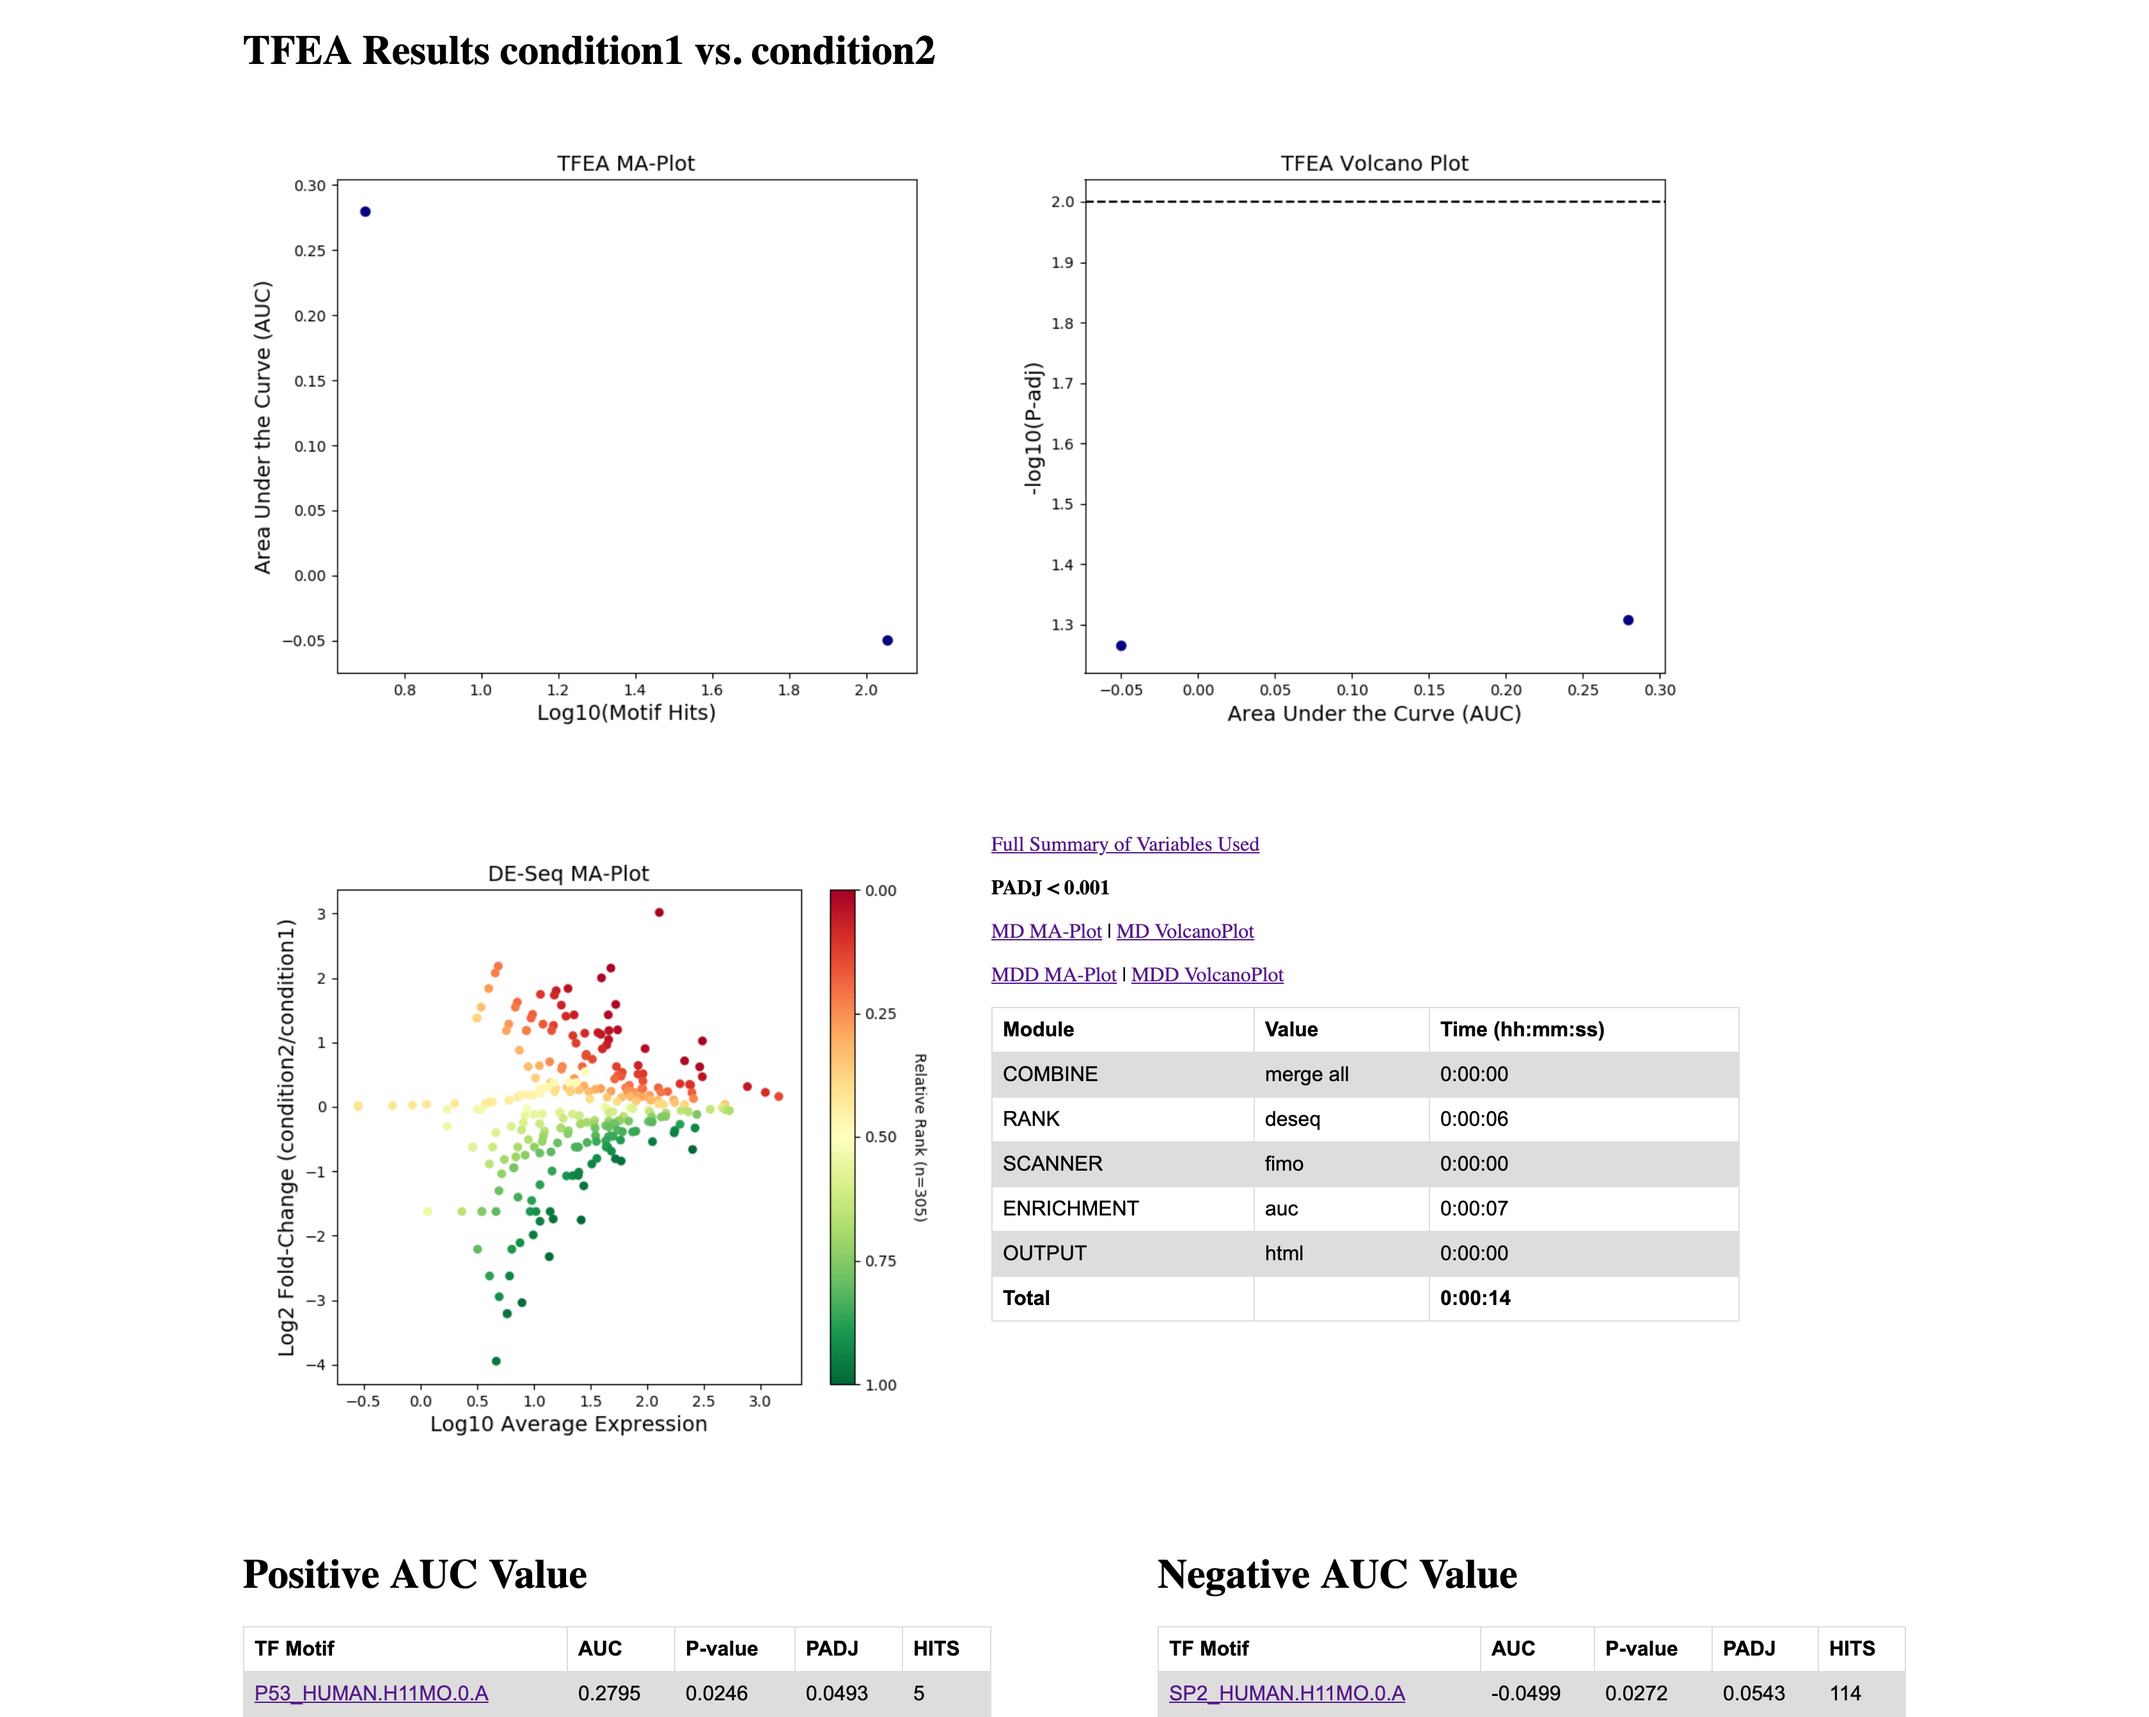
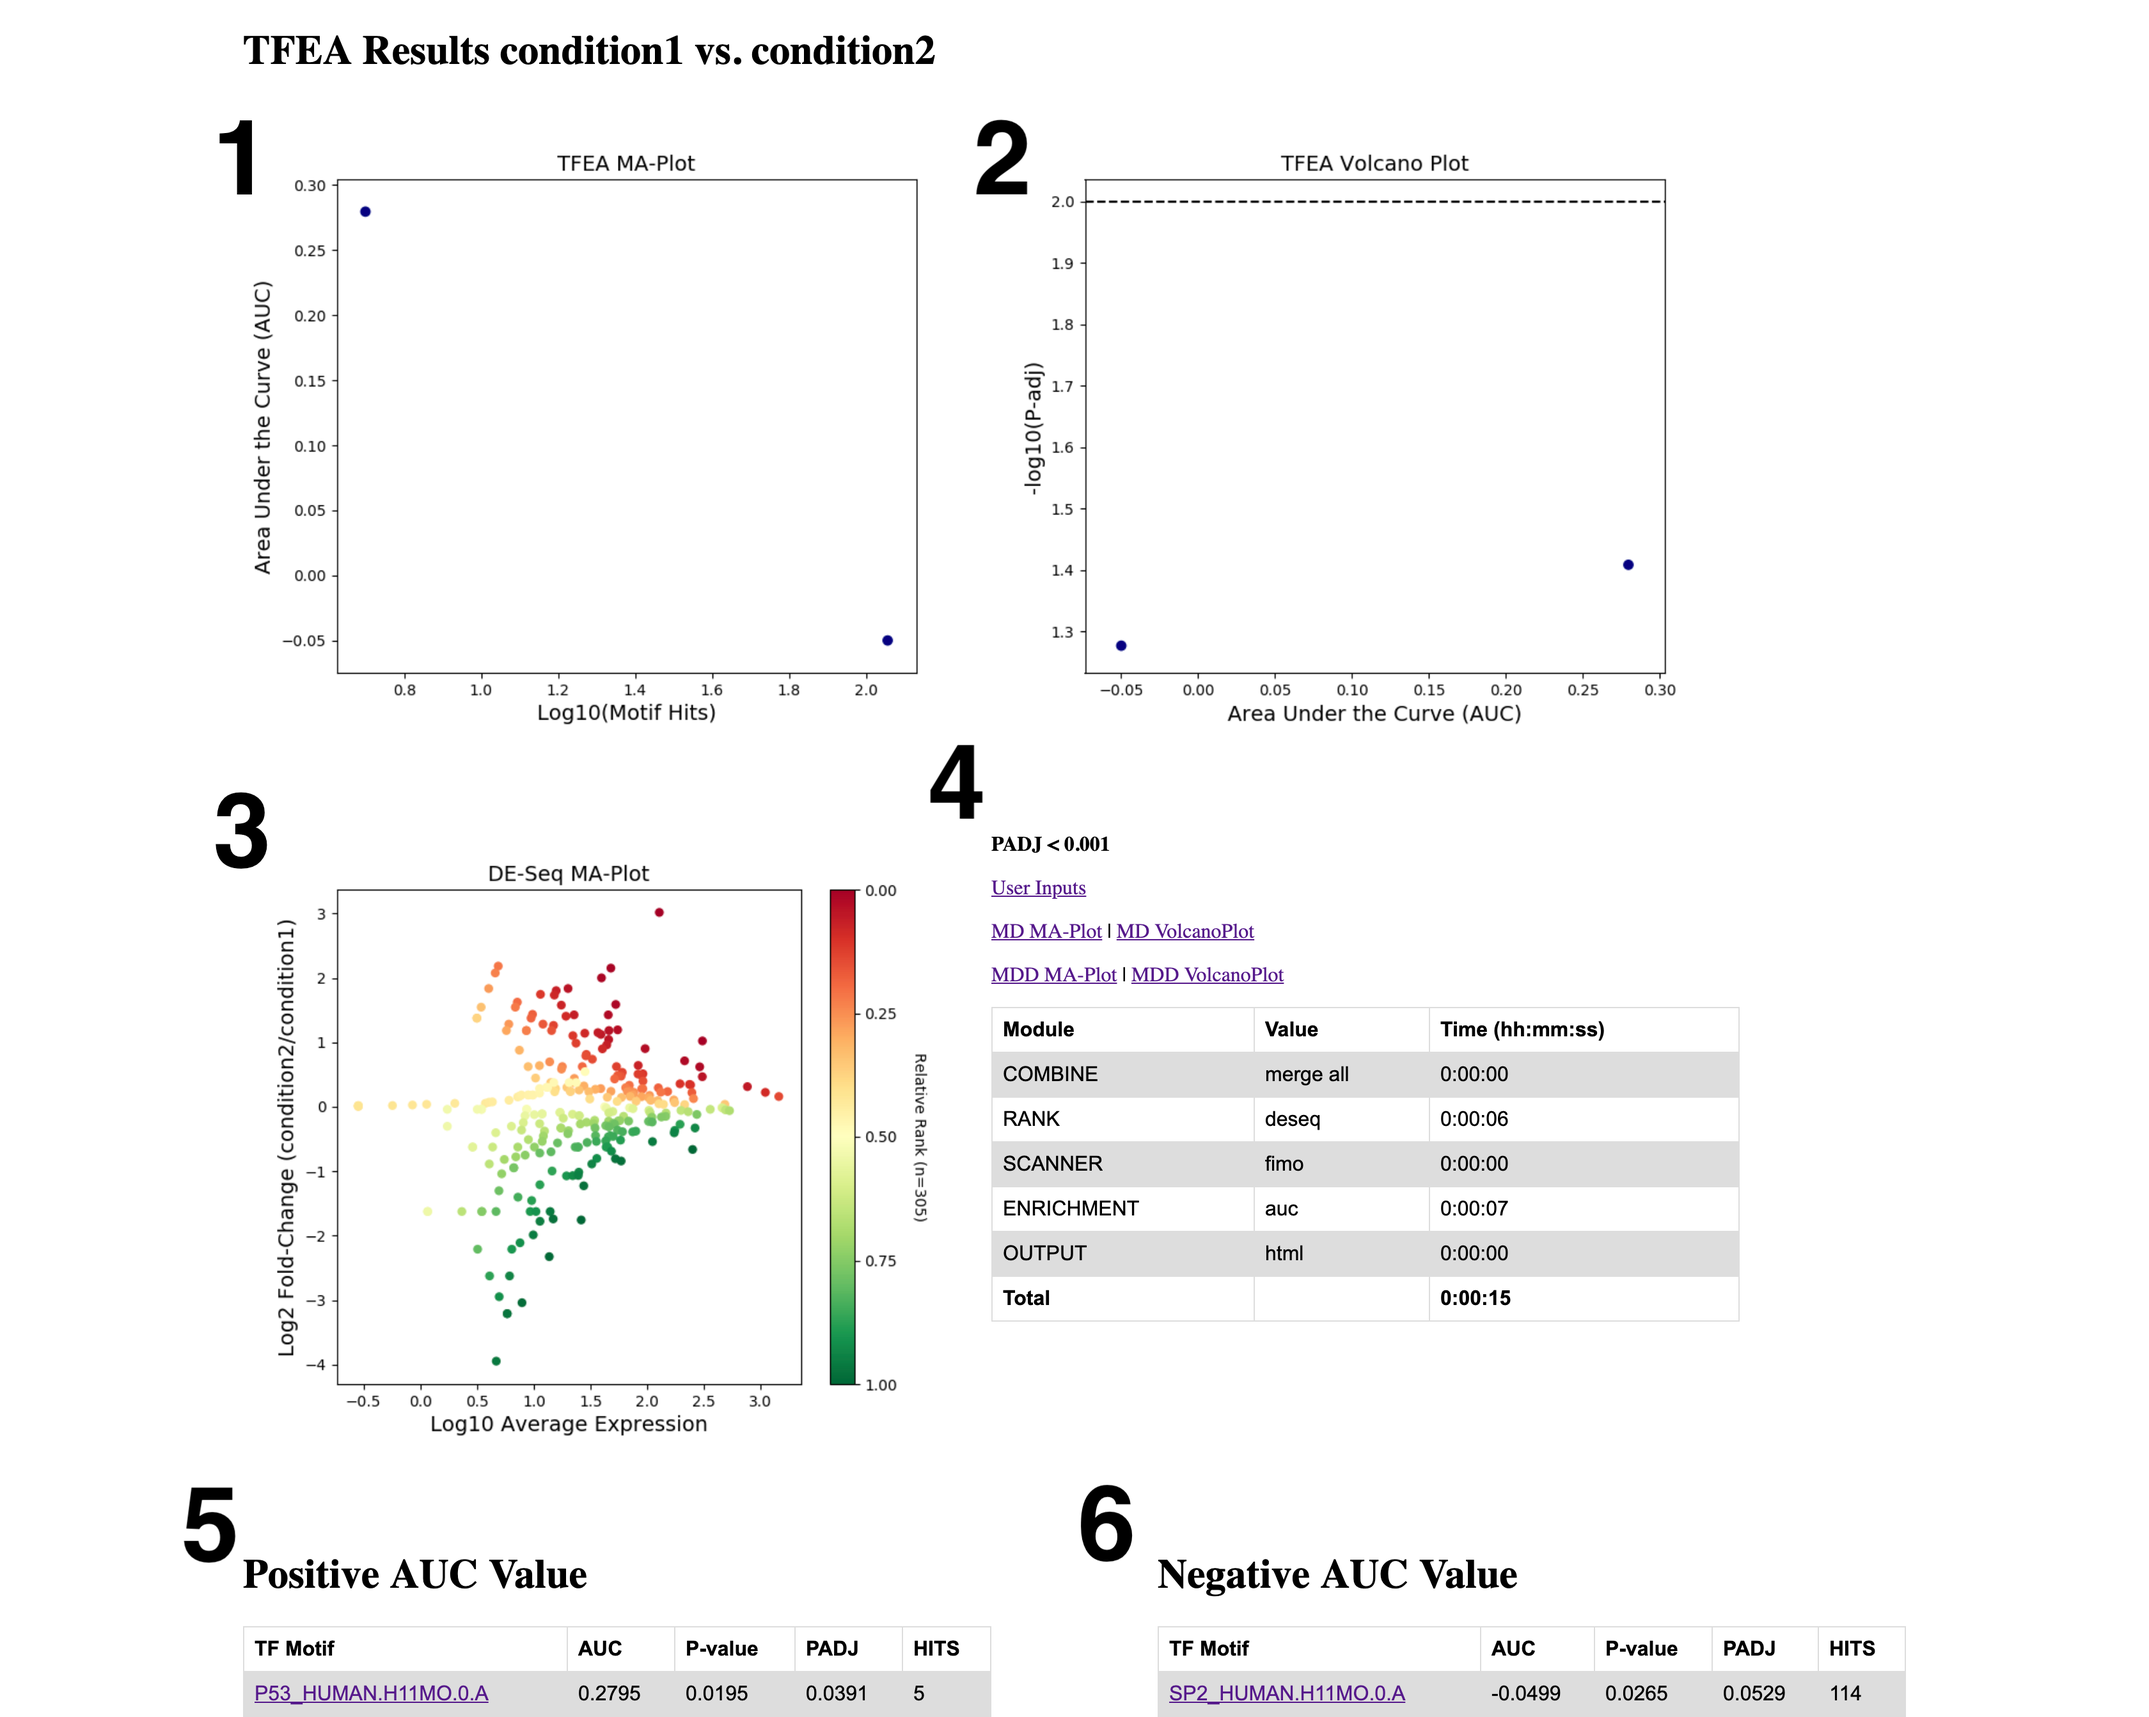
summary.html replaced with inputs.txt, annotated README_images files

diff --git a/test_files/test_output/results.html b/test_files/test_output/results.html
@@ -46,17 +46,17 @@
             <div style="float: left; width:45%">
                 <img src="./plots/DESEQ_MA_Plot.png" alt="Differential MD-Score P-Value                     Histogram">
             </div>
-            <div id="Summary of Variables Used" style="float: right;                 width: 45%">
-                <p><a href="./Summary.html">Full Summary of Variables Used                </a></p>
+            <div id="User Inputs" style="float: right; width: 45%">
                 <p><b>PADJ < 0.001</b></p>
+                <p><a href="./inputs.txt">User Inputs</a></p>
+                <p><a href="./plots/MD_MA.png">MD MA-Plot</a> |                     <a href="./plots/MD_volcano.png">MD VolcanoPlot</a></p>
+                <p><a href="./plots/MDD_MA.png">MDD MA-Plot</a> |                     <a href="./plots/MDD_volcano.png">MDD VolcanoPlot</a></p>
                 <table>
                     <tr>
                         <th>Module</th>
                         <th>Value</th>
                         <th>Time (hh:mm:ss)</th>
                     </tr>
-                <p><a href="./plots/MD_MA.png">MD MA-Plot</a> | <a href="./plots/MD_volcano.png">MD VolcanoPlot</a></p>
-                <p><a href="./plots/MDD_MA.png">MDD MA-Plot</a> | <a href="./plots/MDD_volcano.png">MDD VolcanoPlot</a></p>
                 <tr>
                         <td>COMBINE</td>
                         <td>merge all</td>
@@ -80,7 +80,7 @@
                     </tr><tr>
                         <td><b>Total</b></td>
                         <td> </td>
-                        <td><b>0:00:14</b></td>
+                        <td><b>0:00:15</b></td>
                     </tr>
                 </table>   
             </div>
@@ -99,8 +99,8 @@
             <tr>
                 <td><a href="./plots/P53_HUMAN.H11MO.0.A.results.html">P53_HUMAN.H11MO.0.A</td>
                 <td>0.2795</td>
-                <td>0.0246</td>
-                <td>0.0493</td>
+                <td>0.0195</td>
+                <td>0.0391</td>
                 <td>5</td>
             </tr>
                                 
@@ -121,8 +121,8 @@
             <tr>
                 <td><a href="./plots/SP2_HUMAN.H11MO.0.A.results.html">SP2_HUMAN.H11MO.0.A</td>
                 <td>-0.0499</td>
-                <td>0.0272</td>
-                <td>0.0543</td>
+                <td>0.0265</td>
+                <td>0.0529</td>
                 <td>114</td>
             </tr>
                             

diff --git a/test_files/test_output/plots/SP2_HUMAN.H11MO.0.A.results.html b/test_files/test_output/plots/SP2_HUMAN.H11MO.0.A.results.html
@@ -58,8 +58,8 @@
                     <tr>
                         <td>SP2_HUMAN.H11MO.0.A</td>
                         <td>-0.05</td>
-                        <td>0.02717</td>
-                        <td>0.05434</td>
+                        <td>0.02645</td>
+                        <td>0.0529</td>
                         <td>114</td>
                     </tr>
                 </table>

diff --git a/test_files/test_output/plots/P53_HUMAN.H11MO.0.A.results.html b/test_files/test_output/plots/P53_HUMAN.H11MO.0.A.results.html
@@ -58,8 +58,8 @@
                     <tr>
                         <td>P53_HUMAN.H11MO.0.A</td>
                         <td>0.28</td>
-                        <td>0.02464</td>
-                        <td>0.04928</td>
+                        <td>0.01953</td>
+                        <td>0.03905</td>
                         <td>5</td>
                     </tr>
                 </table>

diff --git a/TFEA/output.py b/TFEA/output.py
@@ -108,7 +108,7 @@ def main(use_config=True, outputdir=None, results=None, md_results=None,
         config.vars['OUTPUTtime'] = total_time
     if output_type == 'html':
         if use_config:
-            summary_html_output(config_object=config.vars, outputdir=outputdir)
+            # summary_html_output(config_object=config.vars, outputdir=outputdir)
             module_list = [('COMBINE', config.vars['COMBINE'], config.vars['COMBINEtime']),
                         ('RANK', config.vars['RANK'], config.vars['RANKtime']), 
                         ('SCANNER', config.vars['SCANNER'], config.vars['SCANNERtime']), 
@@ -274,36 +274,37 @@ def html_output(results=None, module_list=None, outputdir=None,
                 <img src="./plots/DESEQ_MA_Plot.png" alt="Differential MD-Score P-Value \
                     Histogram">
             </div>
-            <div id="Summary of Variables Used" style="float: right; \
-                width: 45%">
-                <p><a href="./Summary.html">Full Summary of Variables Used\
-                </a></p>
+            <div id="User Inputs" style="float: right; width: 45%">
                 <p><b>PADJ < """ + str(padj_cutoff) + """</b></p>
+                <p><a href="./inputs.txt">User Inputs</a></p>
+                <p><a href="./plots/MD_MA.png">MD MA-Plot</a> | \
+                    <a href="./plots/MD_volcano.png">MD VolcanoPlot</a></p>
+                <p><a href="./plots/MDD_MA.png">MDD MA-Plot</a> | \
+                    <a href="./plots/MDD_volcano.png">MDD VolcanoPlot</a></p>
                 <table>
                     <tr>
                         <th>Module</th>
                         <th>Value</th>
                         <th>Time (hh:mm:ss)</th>
                     </tr>
-                <p><a href="./plots/MD_MA.png">MD MA-Plot</a> | <a href="./plots/MD_volcano.png">MD VolcanoPlot</a></p>
-                <p><a href="./plots/MDD_MA.png">MDD MA-Plot</a> | <a href="./plots/MDD_volcano.png">MDD VolcanoPlot</a></p>
                 """)
     total_time = 0
-    for module, value, time in module_list:
-        total_time += time
-        outfile.write("""<tr>
+    if len(module_list) != 0:
+        for module, value, time in module_list:
+            total_time += time
+            outfile.write("""<tr>
                         <td>"""+module+"""</td>
                         <td>"""+str(value)+"""</td>
                         <td>"""+str(datetime.timedelta(seconds=int(time)))
                         +"""</td>
                     </tr>""")
-    outfile.write("""<tr>
+        outfile.write("""<tr>
                         <td><b>Total</b></td>
                         <td> </td>
                         <td><b>"""+str(datetime.timedelta(seconds=int(total_time)))
                         +"""</b></td>
                     </tr>""")
-    outfile.write("""
+        outfile.write("""
                 </table>   
             </div>
         </div>

diff --git a/TFEA/process_inputs.py b/TFEA/process_inputs.py
@@ -522,6 +522,8 @@ def create_directories(srcdirectory=None):
     if config.vars['SBATCH'] == False: #No sbatch flag
         make_out_directories(create=True)
         write_rerun(args=sys.argv, outputdir=config.vars['OUTPUT'])
+        write_vars(config_vars=config.vars, 
+                    outputfile=config.vars['OUTPUT'] / 'inputs.txt')
         config.vars['JOBID'] = 0
     elif str(config.vars['SBATCH']) == 'SUBMITTED': #Internal flag
         make_out_directories(create=False)
@@ -529,6 +531,8 @@ def create_directories(srcdirectory=None):
     else: #--sbatch specified
         make_out_directories(create=True)
         write_rerun(args=sys.argv, outputdir=config.vars['OUTPUT'])
+        var_file = config.vars['OUTPUT'] / 'vars.txt'
+        var_file.write_text(str(config.vars))
         scriptdir = srcdirectory.parent / 'cluster_scripts'
         script = scriptdir / 'run_main.sbatch'
         email = str(config.vars['SBATCH'])
@@ -566,4 +570,14 @@ def write_rerun(args=None, outputdir=None):
         outfile.write('python3 ' + Path(__file__).absolute().parent.as_posix() + ' ' 
                         + ' '.join(args[1:]))
     
+
+def write_vars(config_vars=None, outputfile=None):
+    exclude = ['MOTIF_DISTANCES','MD_DISTANCES1', 'MD_DISTANCES2', 
+                'MDD_DISTANCES1', 'MDD_DISTANCES2', 'PVALS', 'FCS', 
+                'META_PROFILE', 'RESULTS', 'MD_RESULTS', 'MDD_RESULTS']
+
+    with open(outputfile, 'w') as outfile:
+        for key in config_vars:
+            if key not in exclude:
+                outfile.write(key + ' = ' + str(config_vars[key]) + '\n')
 

diff --git a/TFEA/test/test_full.py b/TFEA/test/test_full.py
@@ -97,7 +97,7 @@ class TestMain(unittest.TestCase):
 
         self.assertTrue((self.testdir / 'test_output' / 'results.txt').exists())
         self.assertTrue((self.testdir / 'test_output' / 'results.html').exists())
-        self.assertTrue((self.testdir / 'test_output' / 'summary.html').exists())
+        # self.assertTrue((self.testdir / 'test_output' / 'summary.html').exists())
         # self.assertTrue((self.testdir / 'test_rep1' / 'md_results.txt').exists())
         # self.assertTrue((self.testdir / 'test_rep1' / 'mdd_results.txt').exists())
 
